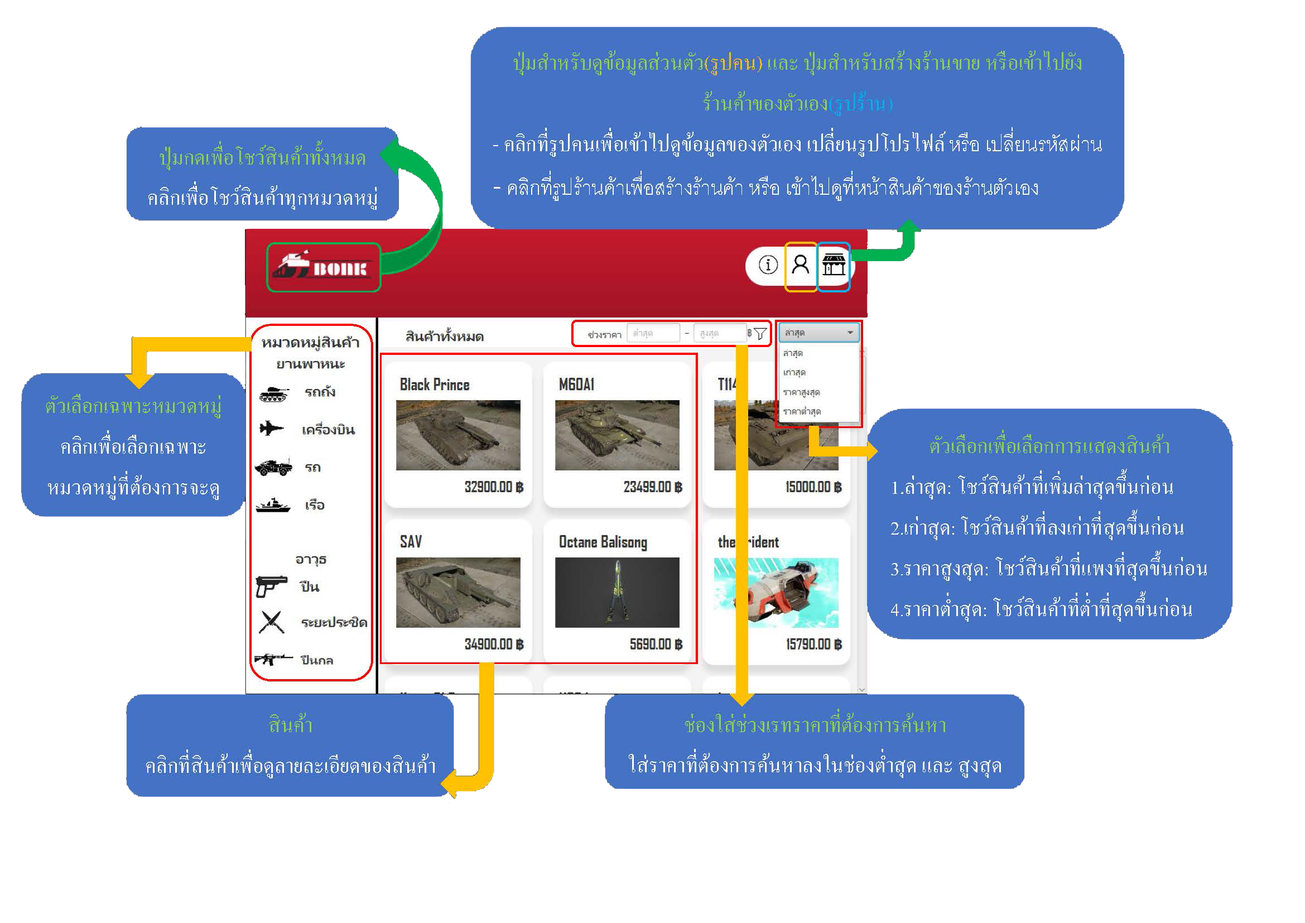
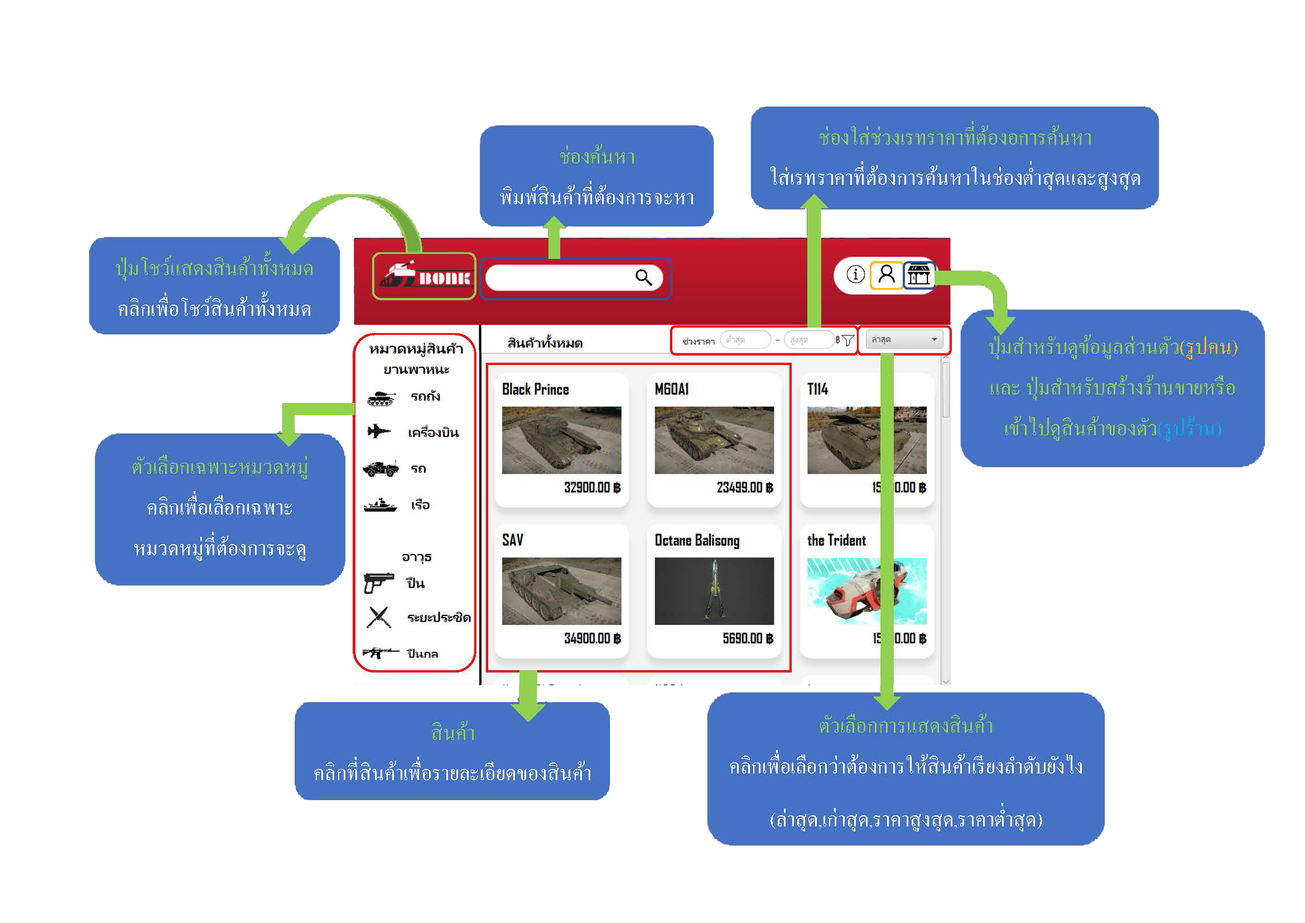
for merge and add product

diff --git a/README.md b/README.md
@@ -2,62 +2,34 @@
 
 ## รายชื่อสมาชิก
 * 6310450069 วริทธิ์ วัฒนกฤษฎา (MydudeEiEi)
-    * 13.ส่วนของ GUI ที่แสดงถึงข้อมูลต่อไปนี้ โดยอาจเข้าถึงข้อมูลนี้ผ่านเมนู หรือมีปุ่มกดที่หน้าแรก
-    * 17.ระบบสำหรับผู้ซื้อสินค้า(ใช้ระบบที่ลงทะเบียนตามข้อ 15.1 จะเป็นผู้ซื้อสินค้าโดยปริยาย ซึ่งจะเข้าดูหน้า marketplace และเลือกซื้อสินค้าได้)
-      * 17.1 หน้า marketplace ที่แสดงสินค้าทั้งหมดจากทุกร้าน เรียงลำดับโดยให้สินค้าที่วางขายล่าสุดขึ้นแสดงก่อน โดยแสดงภาพสินค้า ชื่อสินค้า และราคาสินค้า
-      * 17.3 หน้า marketplace ที่แสดงสินค้าทั้งหมดจากทุกร้าน มีส่วนให้ผู้ซื้อเลือกการแสดงผลเฉพาะสินค้าตามหมวดหมู่ที่สนใจ
-    * 18.ความสวยงามและประสบการณ์ของผู้ใช้งาน
-      * 18.1 ใช้โทนสีและองค์ประกอบต่าง ๆ ของ GUI ที่ดูได้ชัดเจน น่าใช้ ไม่แสบตา ไม่ลวงตา โดยลองนึกถึงว่าหากเราทำโปรแกรมนี้ให้คนทั่วไปใช้จริง ควรแสดงองค์ประกอบเหล่านี้อย่างไร
-      * 18.3 Graphic User Interface (GUI) ควรมีรูปแบบที่เข้าใจง่าย ขนาดหน้าจอของโปรแกรมต้องมีความสูงไม่เกิน 1024 pixel
-    * 19.โปรแกรมต้องสามารถบันทึกสถานะของข้อมูลต่าง ๆ ในรูปแบบของไฟล์ csv และสามารถโหลดไฟล์ที่บันทึกไว้นั้นมาแสดงผลได้อย่างถูกต้อง
-      * 19.1 ต้องมีการบันทึกสถานะและข้อมูลที่จำเป็นในรูปแบบไฟล์ csv
-      * 19.2 เมื่อเปิดโปรแกรมใหม่ หรือเมื่อโปรแกรมโหลดไฟล์ csv จะต้องแสดงข้อมูลที่ได้บันทึกไว้อย่างถูกต้อง
+  * 13.ส่วนของ GUI แสดงถึงข้อมูลผู้จัดทำ มีรูปหน้าของผู้จัดทำและมีข้อแนะนำในการใช้งาน
+  * 17.ระบบสำหรับผู้ซื้อสินค้า สามารถแสดงสินค้าทั้งหมดจากทุกร้านได้ โดยเรียงลำดับการวางขายสินค้าที่ขายล่าสุดแสดงก่อนโดยสินค้าสามารถแสดงภาพสินค้ามีส่วนให้ผู้ซื้อเลือกเรียงลำดับสินค้าจากราคามากที่สุดขึ้นแสดงก่อน หรือเลือกเรียงลำดับสินค้าจากราคาน้อยที่สุดขึ้นแสดงก่อนได้ ชื่อสินค้าและราคาสินค้าได้และผู้ซื้อสามารถเลือกเฉพาะหมวดหมู่ที่สนใจได้
+  * 18.ความสวยงามสีและองค์ประกอบไม่โดดเด่นจนมองยากจนเกินไป ขนาดของโปรแกรมความสูงไม่เกิน 1024 pixel 
+    * (extra) มี effect ที่น่าสนใจ คือการ highlight button
+    * (extra) สามารถเปลี่ยนสีธีมของร้านค้าได้
+  * 19.โปรแกรมสามารถบันทึกสถานะของข้อมูลต่าง ๆ ในรูปแบบของไฟล์ csv ได้ และสามารถโหลดไฟล์ที่บันทึกไว้นั้นมาแสดงผลได้ และเมื่อเปิดโปรแกรมใหม่ไฟล์csv ยังสามารถแสดงข้อมูลได้ถูกต้อง
 
   
 * 6310451294 พชร สุวราวรนาถ (Irisia)
-  * 14.เขียนโปรแกรมในส่วนของผู้ดูแลระบบ โดยผู้ดูแลระบบสามารถเปลี่ยนรหัสผ่านของตนเองได้ และรหัสผ่านใหม่ใช้ได้ สามารถแสดงหน้ารายชื่อของผู้ใช้ระบบที่สามารถแสดงภาพผู้ใช้ username ชื่อผู้ใช้ ชื่อร้านค้าและวันเวลามี่เข้าใช้ล่าสุดสามารถเรียงลำดับวันเวลาผู้ใช้
-    * 14.1 ผู้ดูแลระบบสามารถเปลี่ยนรหัสผ่านของตนเองได้ และรหัสผ่านใหม่ต้องใช้ได้
-    * 14.2 หน้าแสดงรายชื่อของผู้ใช้ระบบ โดยต้องแสดงภาพผู้ใช้ username ชื่อของผู้ใช้ระบบ ชื่อร้านค้า (กรณีผู้ใช้ระบบเปิดร้านค้าของตนเอง) และวันเวลาที่เข้าใช้ล่าสุดของผู้ใช้ระบบคนนั้น เรียงลำดับตามวันเวลาที่ผู้ใช้ระบบเข้าใช้งานล่าสุดก่อน
-    * 14.3 หน้าแสดงรายการของรายงานความไม่เหมาะสมของผู้ใช้ระบบ
-  * 15.สร้างบัญชีของผู้ใช้ระบบ
-    * 15.1 ระบบลงทะเบียน
-    * 15.2 ผู้ใช้ระบบสามารถเปลี่ยนรหัสผ่านของตนเองได้ และรหัสผ่านใหม่
-  * 16. ระบบสำหรับผู้ขายสินค้า
-    * 16.4 หน้ารายการสินค้าทั้งหมด สามารถเลือกสินค้าเพื่อแก้ไขข้อมูลสินค้าได้ โดยสามารถแก้ไขภาพสินค้า ชื่อสินค้า ราคาสินค้า ได้ถูกต้อง มีการตรวจสอบรูปแบบของข้อมูลก่อนจะบันทึกการแก้ไข
-    * 16.5 หน้ารายการสินค้าทั้งหมด สามารถเลือกสินค้าเพื่อเพิ่มจำนวนสินค้าได้ จำนวนสินค้าจะต้องเพิ่มขึ้นอย่างถูกต้อง
-    * 16.6 เมนูตั้งค่าร้านค้า กำหนดจำนวนที่ถือว่าสินค้ามีจำนวนน้อยในคลัง
-    * 16.7 มีเมนูดูรายการสั่งซื้อ แสดงรายการสินค้าที่มีผู้ซื้อสั่งซื้อ แยกรายการสั่งซื้อใหม่ และรายการสั่งซื้อที่จัดส่งแล้ว โดยแสดงภาพสินค้า ชื่อสินค้า จำนวนสินค้า ยอดซื้อ และมีส่วนของการจัดส่งสินค้า ซึ่งจะสมมติว่าผู้ขายส่งสินค้าเรียบร้อยแล้ว โดยต้องระบุหมายเลขติดตาม (tracking number) ในรายการสั่งซื้อ จากนั้นต้องลดจำนวนสินค้าได้ถูกต้อง และรายการสั่งซื้อจะเปลี่ยนสถานะเป็นจัดส่งแล้
-  * 17.ระบบสำหรับผู้ซื้อสินค้า(ใช้ระบบที่ลงทะเบียนตามข้อ 15.1 จะเป็นผู้ซื้อสินค้าโดยปริยาย ซึ่งจะเข้าดูหน้า marketplace และเลือกซื้อสินค้าได้)
-    * 17.2 หน้า marketplace ที่แสดงสินค้าทั้งหมดจากทุกร้าน มีส่วนให้ผู้ซื้อเลือกเรียงลำดับสินค้าจากราคามากที่สุดขึ้นแสดงก่อน หรือเลือกเรียงลำดับสินค้าจากราคาน้อยที่สุดขึ้นแสดงก่อน
-    * 17.3 เลือกเรียงลำดับการแสดงสินค้าจากราคาข้อ 17.2 ได้
-    * 17.4 หน้า marketplace ที่แสดงสินค้าทั้งหมดจากทุกร้าน มีส่วนให้ผู้ซื้อเลือกการแสดงผลเฉพาะสินค้าที่มีช่วงราคาที่ผู้ซื้อกำหนดได้เอง โดยยังคงเลือกเรียงลำดับการแสดงสินค้าจากราคาข้อ 17.2 ได้
-    * 17.6 ผู้ซื้อเลือกซื้อสินค้าจากหน้า marketplace แล้วจากข้อ 17.5 สามารถสร้างรายการสั่งซื้อได้เลย (ไม่ต้องทำระบบตะกร้าสินค้า) โดยให้ระบุจำนวน และมีการสรุปราคาให้ก่อนยืนยันการสร้างรายการสั่งซื้อ ซึ่งจะมีสถานะเป็นรายการสั่งซื้อใหม่ หากจำนวนสินค้ามีไม่เพียงพอ จะต้องมีข้อความแจ้งเตือนเพื่อให้ผู้ซื้อทราบอย่างเหมาะสม
-    * 17.8 ในหน้ารายละเอียดสินค้า ข้อ 17.5 มีส่วนที่ให้ผู้ซื้อแจ้งรายงานความไม่เหมาะสมของสินค้า ซึ่งจะไปแสดงผลในข้อ 14.3 โดยต้องระบุประเภทของความไม่เหมาะสม และข้อความเพิ่มเติม ซึ่งเจ้าของร้านอาจถูกระงับสิทธิ์การเข้าใช้ระบบจากรายงานนี้เมื่อผู้ดูแลระบบเห็นว่าไม่เหมาะสมจริง
-  * 18.ความสวยงามและประสบการณ์ของผู้ใช้งาน
-    * 18.1 ใช้โทนสีและองค์ประกอบต่าง ๆ ของ GUI ที่ดูได้ชัดเจน น่าใช้ ไม่แสบตา ไม่ลวงตา โดยลองนึกถึงว่าหากเราทำโปรแกรมนี้ให้คนทั่วไปใช้จริง ควรแสดงองค์ประกอบเหล่านี้อย่างไร
-  * 19.โปรแกรมต้องสามารถบันทึกสถานะของข้อมูลต่าง ๆ ในรูปแบบของไฟล์ csv และสามารถโหลดไฟล์ที่บันทึกไว้นั้นมาแสดงผลได้อย่างถูกต้อง
-    * 19.1 ต้องมีการบันทึกสถานะและข้อมูลที่จำเป็นในรูปแบบไฟล์ csv
-    * 19.2 เมื่อเปิดโปรแกรมใหม่ หรือเมื่อโปรแกรมโหลดไฟล์ csv จะต้องแสดงข้อมูลที่ได้บันทึกไว้อย่างถูกต้อง
+  * 14.เขียนโปรแกรมในส่วนของผู้ดูแลระบบ โดยผู้ดูแลระบบสามารถเปลี่ยนรหัสผ่านของตนเองได้ และรหัสผ่านใหม่ใช้ได้ สามารถแสดงหน้ารายชื่อของผู้ใช้ระบบที่สามารถแสดงภาพผู้ใช้ username ชื่อผู้ใช้ ชื่อร้านค้าและวันเวลามี่เข้าใช้ล่าสุดสามารถเรียงลำดับวันเวลาผู้ใช้งานล่าสุดได้และสามารถรายงานความไม่เหมาะสมของผู้ใช้ระบบได้
+  * 15.สร้างบัญชีของผู้ใช้ระบบ ในส่วนของระบบลงทะเบียนและสามารถเปลี่ยนรหัสผ่านได้
+  * 16.ระบบสำหรับผู้ขายสินค้าหน้ารายการสินค้าสามารถแก้ไขข้อมูลสินค้าได้ โดยภายในสามารถเปลี่ยนรูปสินค้า ชื่อได้ สามารถเลือกสินค้าและเพิ่มจำนวนได้ ในส่วนของเมนูตั่งค้าสามารถกำหนดได้ว่าสินค้าในคลังเหลือน้อยและดูรายการสั่งซื้อได้โดยมีเลขติดตามสินค้า
+  * 17.ระบบผู้ซื้อสินค้า มีส่วนให้ผู้ซื้อเลือกการแสดงผลเฉพาะสินค้าที่มีช่วงราคาที่ผู้ซื้อกำหนดได้เอง ผู้ซื้อสามารถระบุจำนวนสินค้า มีการสรุปราคาและการยืนยันการสั่งซื้ออีกครั้งหนึ่งได้ เมื่อจำนวนสินค้าไม่เพียงพอมีข้อความแจ้งผู้ซื้อ สามารถรายงานความไม่เหมาะสมของสินค้าได้โดยผู้ดูแลระบบจะสามารถระงับสิทธิ์การใช้งานได้ ผู้ซื้อสามารถรีวิวสินค้าได้และให้คะแนนได้
+  * 18.ความสวยงามสีและองค์ประกอบไม่โดดเด่นจนมองยากจนเกินไป ขนาดของโปรแกรมความสูงไม่เกิน 1024 pixel
+    * (extra) มี effect ที่น่าสนใจ คือการ highlight button
+    * (extra) สามารถเปลี่ยนสีธีมของร้านค้าได้
+  * 19.โปรแกรมสามารถบันทึกสถานะของข้อมูลต่าง ๆ ในรูปแบบของไฟล์ csv ได้ และสามารถโหลดไฟล์ที่บันทึกไว้นั้นมาแสดงผลได้ และเมื่อเปิดโปรแกรมใหม่ไฟล์csv ยังสามารถแสดงข้อมูลได้ถูกต้อง
 
 
 * 6310451871 อนวัช หอมหวล (Anawat223)  
-  * 14.เขียนโปรแกรมในส่วนของผู้ดูแลระบบ
-    * 14.4 มีการตรวจสอบรูปแบบของข้อมูลก่อนจะบันทึกการลงขายสินค้า 
-  * 15.สร้างบัญชีของผู้ใช้ระบบ
-    * 15.3 ผู้ใช้ระบบ upload รูปภาพ เพื่อใช้เป็นภาพของผู้ใช้ระบบ และสามารถเปลี่ยนรูปได้ หากผู้ใช้ระบบยังไม่กำหนดภาพ ระบบจะให้ใช้ภาพ default
-  * 16.ระบบสำหรับผู้ขายสินค้า
-    * 16.1 เมนูเปิดร้านค้า ให้ผู้ใช้ระบบสามารถสร้างร้านค้าของตนเอง ซึ่งจะทำให้ผู้ใช้ระบบมีสถานะเป็นผู้ขายด้วย โดยการเปิดร้านค้าจะใช้ข้อมูลชื่อร้าน
-    * 16.2 เมนูเพิ่มสินค้า เพื่อลงขายสินค้าโดยใช้ข้อมูลชื่อสินค้า ภาพสินค้า รายละเอียดสินค้า ราคาสินค้า จำนวนสินค้าในคลัง
-    * 16.3 เมนูดูรายการสินค้าทั้งหมด ที่แสดงรายการสินค้าทั้งหมด แสดงภาพสินค้า ชื่อสินค้า ราคาสินค้า และจำนวนสินค้าในคลัง
-  * 17.ระบบสำหรับผู้ซื้อสินค้า(ใช้ระบบที่ลงทะเบียนตามข้อ 15.1 จะเป็นผู้ซื้อสินค้าโดยปริยาย ซึ่งจะเข้าดูหน้า marketplace และเลือกซื้อสินค้าได้)
-    * 17.5  เมื่อผู้ซื้อกดเลือกสินค้าจากหน้า marketplace แล้ว ให้แสดงหน้ารายละเอียดสินค้า โดยแสดงข้อมูลสินค้าที่ผู้ขายกรอกข้อมูลการวางขายสินค้าข้อ 16.2 และแสดงชื่อร้านค้าที่สามารถเชื่อมโยงไปยังหน้าร้านค้าได้
-    * 17.6 ผู้ซื้อเลือกซื้อสินค้าจากหน้า marketplace แล้วจากข้อ 17.5 สามารถสร้างรายการสั่งซื้อได้เลย (ไม่ต้องทำระบบตะกร้าสินค้า) โดยให้ระบุจำนวน และมีการสรุปราคาให้ก่อนยืนยันการสร้างรายการสั่งซื้อ ซึ่งจะมีสถานะเป็นรายการสั่งซื้อใหม่ หากจำนวนสินค้ามีไม่เพียงพอ จะต้องมีข้อความแจ้งเตือนเพื่อให้ผู้ซื้อทราบอย่างเหมาะสม
-  * 18.ความสวยงามและประสบการณ์ของผู้ใช้งาน
-    * 18.1 ใช้โทนสีและองค์ประกอบต่าง ๆ ของ GUI ที่ดูได้ชัดเจน น่าใช้ ไม่แสบตา ไม่ลวงตา โดยลองนึกถึงว่าหากเราทำโปรแกรมนี้ให้คนทั่วไปใช้จริง ควรแสดงองค์ประกอบเหล่านี้อย่างไร
-    * 18.3 Graphic User Interface (GUI) ควรมีรูปแบบที่เข้าใจง่าย ขนาดหน้าจอของโปรแกรมต้องมีความสูงไม่เกิน 1024 pixel 
-  * 19.โปรแกรมต้องสามารถบันทึกสถานะของข้อมูลต่าง ๆ ในรูปแบบของไฟล์ csv และสามารถโหลดไฟล์ที่บันทึกไว้นั้นมาแสดงผลได้อย่างถูกต้อง
-    * 19.1 ต้องมีการบันทึกสถานะและข้อมูลที่จำเป็นในรูปแบบไฟล์ csv
-    * 19.2 เมื่อเปิดโปรแกรมใหม่ หรือเมื่อโปรแกรมโหลดไฟล์ csv จะต้องแสดงข้อมูลที่ได้บันทึกไว้อย่างถูกต้อง
+  * 14.เขียนโปรแกรมในส่วนของผู้ดูแลระบบ มีการตรวจสอบรูปแบบของข้อมูลก่อนที่จะบันทึกการลงขายสินค้า
+  * 15.สร้างบัญชีของผู้ใช้ระบบ ผู้ใช้สามารถ upload รูปภาพได้เมื่อผู้ใช้ยังไม่อัปโหลดรูปภาพจะใช้เป็นภาพ default
+  * 16.ระบบสำหรับผู้ขายสินค้า ผู้ใช้ระบบสามารถสร้างขายของตัวเองได้ เมื่อสร้างแล้วจะมีสถานะเป็นผู้ขายและร้านค้าจะแสดงชื่อร้านค้าที่ได้ตั้งเอาไว้ เมนูเพิ่มสินค้าสามารถแสดงชื่อสินค้า รูปสินค้า รายละเอียดและจำนวนสินค้าในคลังได้ มีหน้าแสดงรายการสินค้าทั้งหมด และ แจ้งเตือนว่าสินค้าเหลือน้อย
+  * 17.ระบบผู้ซื้อสินค้า เมื่อผู้ซื้อกดเลือกสินค้าจากหน้าร้านค้าแล้วสามารถแสดงหน้ารายละเอียดของสินค้าได้โดยแสดงข้อมูลสินค้าที่ผู้ขายลงลายละเอียดไว้ และสามารถไปยังหน้าร้านของผู้ขายได้ มีส่วนให้ผู้ซื้อเลือกการแสดงผลเฉพาะสินค้าที่มีช่วงราคาที่ผู้ซื้อกำหนดได้เอง ผู้ซื้อสามารถระบุจำนวนสินค้า มีการสรุปราคาและการยืนยันการสั่งซื้ออีกครั้งหนึ่งได้ เมื่อจำนวนสินค้าไม่เพียงพอมีข้อความแจ้งผู้ซื้อ สามารถรายงานความไม่เหมาะสมของสินค้าได้โดยผู้ดูแลระบบจะสามารถระงับสิทะฺ์การใช้งานได้
+  * 18.ความสวยงามสีและองค์ประกอบไม่โดดเด่นจนมองยากจนเกินไป
+    * (extra) มี effect ที่น่าสนใจ คือการ highlight button
+    * (extra) สามารถเปลี่ยนสีธีมของร้านค้าได้
+  * 19.โปรแกรมสามารถบันทึกสถานะของข้อมูลต่าง ๆ ในรูปแบบของไฟล์ csv ได้ และสามารถโหลดไฟล์ที่บันทึกไว้นั้นมาแสดงผลได้ และเมื่อเปิดโปรแกรมใหม่ไฟล์csv ยังสามารถแสดงข้อมูลได้ถูกต้อง
 
 
 ## วิธีการติดตั้งหรือรันโปรแกรม
@@ -65,6 +37,12 @@
 
 
 ## การวางโครงสร้างไฟล์
+  * ในว่นของโฟลเดอร์ data จะเก็บไฟล์.csv ที่มี orderData.csv, productData.csv, repostData.csv, reviewData.csv และ userData.csv ไว้ และจะเก็บโฟลเดอร์รูปภาพของผู้ใช้งานที่อัปโหลดและที่ผู้ขายได้อัปโหลดสินค้าไว้ในโฟล์เดอร์จะมีโฟลเดอร์ products ที่เก็บรูปภาพของสินค้าเอาไว้ และมีโฟลเดอร์ profiles ที่เก็บรูปภาพโปรไฟล์ของผู้ใช้งานเอาไว้
+  * ใน Package controller จะมีเฉพาะไฟล์ controller อยู่ ใน controller จะมีไฟล์ shop ที่เก็บ Class ของ DetailController, HomepageController, ProductController, PurchaseSuccessfulController, ReviewController, SpecificStoreController และ SummaryPageController ไว้ 
+  * ใน Package models จะมีเฉพาะไฟล์ model อยู่ใน models จะมี package shop ที่เก็บ Class ของ Order, OrderList, Product, ProductList, Review, ReviewList และ Shop เอาไว้ และอีก package คือ package verify จะเก็บ class ของ Account, AccountList, Report และ ReportList ไว้
+  * ใน Package services จะมีเฉพาะ DataSource และ Interface อยู่ โดยจะมีClass Effect, FileService, OrderDataSource, ProductDataSource, RepostDataSource, ReviewDataSource และ UserDataSource ส่วนของ Interface ของก็จะมี DataSource และ HandleImage
+  * ใน Package strategy จะมีเฉพาะ Filter และ InterFace อยู่โดยจะมี Class CategoryProductFilterer, MyStoreProductFilterer, PriceProductFilterer, SearchProductFilterer และส่วนของ Interface จะมี SearchProductFilterer อยู่
+  * ในส่วนของไฟล์ resources จะเก็บรูปที่ใช้แสดงผลของโปรแกรมในส่วนต่างอยู่ เก็บไฟล์ fxml และ stylesheet ไว้ ใน(โฟลเดอร์ shop จะเก็บ detail.fxml, home.fxml, product.fxml, purchase_successful.fxml, review.fxml, specific_store.fxml, summary.fxml ไฟล์ shopSetting เก็บ add_product.fxml my_product.fxml ,my_product_detail.fxml ,my_store.fxml ,order_manage.fxml ,shop_setup.fxml โฟลเดอร์ userdata ก็จะเก็บ info_page.fxml ,profile.fxml โฟลเดอร์ verify จะเก็บ info_page.fxml profile.fxml ,admin.fxml ,login.fxml ,login_register.fxml ,register.fxml ,report.fxml ,report_successful.fxml และส่วนสุดท้าย โฟลเดอร์ styles จะเก็บไฟล์.css เอาไว้ ซึ่งจะมี info_page.fxml profile.fxml ,admin.fxml ,login.fxml ,login_register.fxml ,register.fxml ,report.fxml ,report_successful.fxml 
 
 ## ตัวอย่างข้อมูลผู้ใช้ระบบ
 * (Seller) (Username: Military) (Password: hailhydra)
